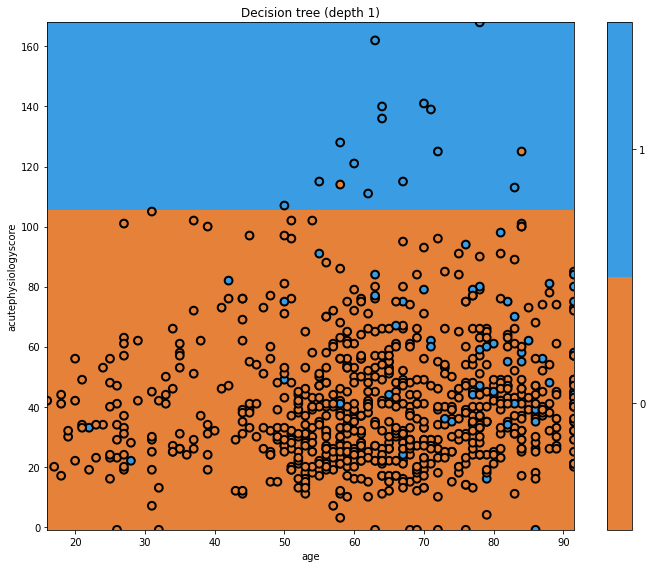
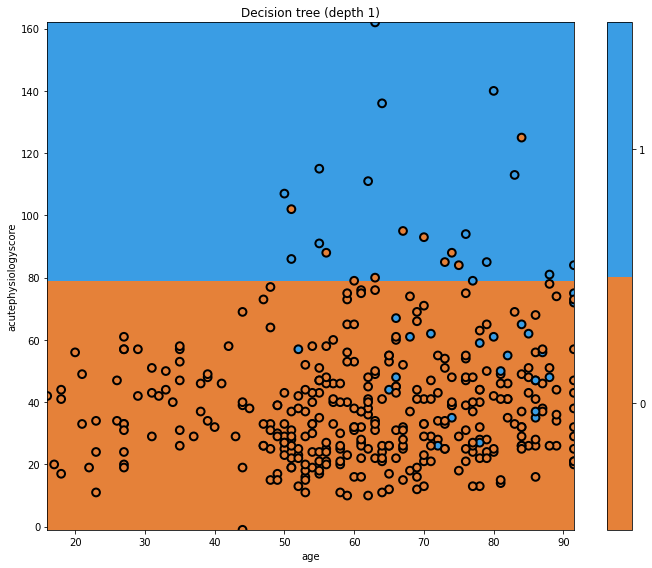
update figures

diff --git a/episodes/01-introduction.md b/episodes/01-introduction.md
@@ -43,13 +43,13 @@ cohort.head()
 
 The data has been assigned to a dataframe called `cohort`. Each item that is listed after the `SELECT` statement appears as a column in the data. Let's take a look at the first few lines:
 
-|index|gender|age|admissionweight|unabridgedhosplos|acutephysiologyscore|actualhospitalmortality|heartrate|meanbp|creatinine|temperature|respiratoryrate|wbc|admissionheight|
-|---|---|---|---|---|---|---|---|---|---|---|---|---|---|
-|0|Male|45\.0|116\.0|3\.0778|41|ALIVE|109\.0|154\.0|1\.01|36\.2|41\.0|10\.0|178\.0|
-|1|Male|57\.0|NaN|7\.6736|26|ALIVE|106\.0|46\.0|-1\.0|36\.3|6\.0|10\.1|172\.7|
-|2|Female|80\.0|65\.3|7\.8806|7|ALIVE|96\.0|106\.0|-1\.0|36\.4|18\.0|8\.5|170\.2|
-|3|Female|48\.0|86\.4|27\.5583|44|ALIVE|102\.0|54\.0|1\.16|36\.9|39\.0|6\.1|177\.8|
-|4|Female|59\.0|66\.6|15\.0778|56|ALIVE|134\.0|172\.0|1\.03|34\.8|32\.0|25\.5|170\.2|
+|index|gender|age|admissionweight|unabridgedhosplos|acutephysiologyscore|apachescore|actualhospitalmortality|heartrate|meanbp|creatinine|temperature|respiratoryrate|wbc|admissionheight|
+|---|---|---|---|---|---|---|---|---|---|---|---|---|---|---|
+|0|Female|48|86\.4|27\.5583|44|49|ALIVE|102\.0|54\.0|1\.16|36\.9|39\.0|6\.1|177\.8|
+|1|Female|59|66\.6|15\.0778|56|61|ALIVE|134\.0|172\.0|1\.03|34\.8|32\.0|25\.5|170\.2|
+|2|Male|31|66\.8|2\.7326|45|45|ALIVE|138\.0|71\.0|2\.35|37\.2|34\.0|21\.4|188\.0|
+|3|Female|51|77\.1|0\.1986|19|24|ALIVE|122\.0|73\.0|-1\.0|36\.8|26\.0|-1\.0|160\.0|
+|4|Female|48|63\.4|1\.7285|25|30|ALIVE|130\.0|68\.0|1\.1|-1\.0|29\.0|7\.6|172\.7|
 
 
 ## Preparing the data for analysis
@@ -86,23 +86,24 @@ The table below shows summary characteristics of our dataset:
 
 |                                    |         | Missing   | Overall      | ALIVE        | EXPIRED      |
 |------------------------------------|---------|-----------|--------------|--------------|--------------|
-| n                                  |         |           | 1109         | 1012         | 97           |
-| gender, n (%)                      | Female  | 0         | 621 (56.0)   | 576 (56.9)   | 45 (46.4)    |
-|                                    | Male    |           | 487 (43.9)   | 436 (43.1)   | 51 (52.6)    |
-|                                    | Unknown |           | 1 (0.1)      |              | 1 (1.0)      |
-| age, mean (SD)                     |         | 0         | 64.3 (16.7)  | 63.5 (16.7)  | 73.0 (14.5)  |
-| admissionweight, mean (SD)         |         | 27        | 83.1 (25.1)  | 83.5 (25.2)  | 79.2 (23.5)  |
-| unabridgedhosplos, mean (SD)       |         | 0         | 7.9 (10.1)   | 7.9 (10.0)   | 7.8 (11.1)   |
-| acutephysiologyscore, mean (SD)    |         | 0         | 42.9 (23.4)  | 40.2 (20.2)  | 70.5 (34.6)  |
-| heartrate, mean (SD)               |         | 0         | 102.4 (32.3) | 101.4 (31.5) | 112.9 (38.1) |
-| meanbp, mean (SD)                  |         | 0         | 89.5 (41.9)  | 90.0 (41.2)  | 84.3 (49.0)  |
-| creatinine, mean (SD)              |         | 0         | 0.9 (1.9)    | 0.8 (1.9)    | 1.3 (1.9)    |
-| temperature, mean (SD)             |         | 0         | 35.6 (5.6)   | 35.8 (5.0)   | 33.3 (9.7)   |
-| respiratoryrate, mean (SD)         |         | 0         | 27.9 (15.6)  | 27.4 (15.6)  | 33.1 (14.7)  |
-| wbc, mean (SD)                     |         | 0         | 7.6 (8.2)    | 7.3 (7.8)    | 10.5 (11.2)  |
-| admissionheight, mean (SD)         |         | 14        | 167.9 (14.1) | 167.8 (13.8) | 169.2 (16.8) |
-| actualhospitalmortality_enc, n (%) | 0       | 0         | 1012 (91.3)  | 1012 (100.0) |              |
-|                                    | 1       |           | 97 (8.7)     |              | 97 (100.0)   |
+| n                                  |         |           | 536          | 488          | 48           |
+| gender, n (%)                      | Female  | 0         | 305 (56.9)   | 281 (57.6)   | 24 (50.0)    |
+|                                    | Male    |           | 230 (42.9)   | 207 (42.4)   | 23 (47.9)    |
+|                                    | Unknown |           | 1 (0.2)      |              | 1 (2.1)      |
+| age, mean (SD)                     |         | 0         | 63.4 (17.4)  | 62.2 (17.4)  | 75.2 (12.6)  |
+| admissionweight, mean (SD)         |         | 16        | 81.8 (25.0)  | 82.3 (25.1)  | 77.0 (23.3)  |
+| unabridgedhosplos, mean (SD)       |         | 0         | 5.6 (6.8)    | 5.7 (6.7)    | 4.3 (7.8)    |
+| acutephysiologyscore, mean (SD)    |         | 0         | 41.7 (22.7)  | 38.5 (18.8)  | 74.3 (31.7)  |
+| apachescore, mean (SD)             |         | 0         | 53.6 (25.1)  | 49.9 (21.1)  | 91.8 (30.5)  |
+| heartrate, mean (SD)               |         | 0         | 101.5 (32.9) | 100.3 (31.9) | 113.9 (40.0) |
+| meanbp, mean (SD)                  |         | 0         | 89.6 (41.5)  | 90.7 (40.7)  | 78.8 (47.6)  |
+| creatinine, mean (SD)              |         | 0         | 0.8 (2.0)    | 0.8 (2.0)    | 1.4 (1.8)    |
+| temperature, mean (SD)             |         | 0         | 35.6 (5.6)   | 35.9 (4.8)   | 32.9 (10.4)  |
+| respiratoryrate, mean (SD)         |         | 0         | 27.4 (15.5)  | 26.8 (15.4)  | 33.9 (15.2)  |
+| wbc, mean (SD)                     |         | 0         | 6.5 (7.6)    | 6.2 (7.1)    | 9.9 (11.2)   |
+| admissionheight, mean (SD)         |         | 8         | 168.4 (14.5) | 168.2 (13.6) | 170.3 (21.5) |
+| actualhospitalmortality_enc, n (%) | 0       | 0         | 488 (91.0)   | 488 (100.0)  |              |
+|                                    | 1       |           | 48 (9.0)     |              | 48 (100.0)   |
 
 ## Creating train and test sets
 

diff --git a/episodes/08-performance.md b/episodes/08-performance.md
@@ -19,17 +19,17 @@ We've now learned the basics of the various tree methods and have visualized mos
 from sklearn import metrics
 
 clf = dict()
-clf['Decision Tree'] = tree.DecisionTreeClassifier(criterion='entropy', splitter='best').fit(x_train,y_train)
-clf['Gradient Boosting'] = ensemble.GradientBoostingClassifier(n_estimators=10).fit(x_train, y_train)
-clf['Random Forest'] = ensemble.RandomForestClassifier(n_estimators=10).fit(x_train, y_train)
-clf['Bagging'] =  ensemble.BaggingClassifier(n_estimators=10).fit(x_train, y_train)
-clf['AdaBoost'] =  ensemble.AdaBoostClassifier(n_estimators=10).fit(x_train, y_train)
+clf['Decision Tree'] = tree.DecisionTreeClassifier(criterion='entropy', splitter='best').fit(x_train.values, y_train.values)
+clf['Gradient Boosting'] = ensemble.GradientBoostingClassifier(n_estimators=10).fit(x_train.values, y_train.values)
+clf['Random Forest'] = ensemble.RandomForestClassifier(n_estimators=10).fit(x_train.values, y_train.values)
+clf['Bagging'] =  ensemble.BaggingClassifier(n_estimators=10).fit(x_train.values, y_train.values)
+clf['AdaBoost'] =  ensemble.AdaBoostClassifier(n_estimators=10).fit(x_train.values, y_train.values)
 
 fig = plt.figure(figsize=[10,10])
 
 print('AUROC\tModel')
 for i, curr_mdl in enumerate(clf):    
-    yhat = clf[curr_mdl].predict_proba(x_test)[:,1]
+    yhat = clf[curr_mdl].predict_proba(x_test.values)[:,1]
     score = metrics.roc_auc_score(y_test, yhat)
     print('{:0.3f}\t{}'.format(score, curr_mdl))
     ax = fig.add_subplot(3,2,i+1)

diff --git a/episodes/03-variance.md b/episodes/03-variance.md
@@ -23,7 +23,7 @@ In the previous episode we created a very simple decision tree. Let's see what h
 ```python
 # train model
 mdl = tree.DecisionTreeClassifier(max_depth=5)
-mdl = mdl.fit(x_train, y_train)
+mdl = mdl.fit(x_train.values, y_train.values)
 
 # plot tree
 plt.figure(figsize=[10,8])
@@ -60,7 +60,7 @@ Overfitting is a problem that occurs when our algorithm is too closely aligned t
 Let's prune the model and look again.
 
 ```python
-mdl = glowyr.prune(mdl, min_samples_leaf = 100)
+mdl = glowyr.prune(mdl, min_samples_leaf = 10)
 graph = glowyr.create_graph(mdl,feature_names=features)
 Image(graph.create_png())
 ```
@@ -98,14 +98,14 @@ for i in range(3):
     
     # only use the first 50
     idx = idx[:50]
-    X_temp = x_train.iloc[idx]
+    x_temp = x_train.iloc[idx]
     y_temp = y_train.values[idx]
     
     # initialize the model
     mdl = tree.DecisionTreeClassifier(max_depth=5)
     
     # train the model using the dataset
-    mdl = mdl.fit(X_temp, y_temp)
+    mdl = mdl.fit(x_temp.values, y_temp)
     txt = f'Random sample {i+1}'
     glowyr.plot_model_pred_2d(mdl, X_temp, y_temp, title=txt)
 ```

diff --git a/episodes/05-bagging.md b/episodes/05-bagging.md
@@ -28,7 +28,7 @@ Let's take a look at a simple bootstrap model.
 np.random.seed(321)
 clf = tree.DecisionTreeClassifier(max_depth=5)
 mdl = ensemble.BaggingClassifier(base_estimator=clf, n_estimators=6)
-mdl = mdl.fit(x_train, y_train)
+mdl = mdl.fit(x_train.values, y_train.values)
 
 fig = plt.figure(figsize=[12,6])
 for i, estimator in enumerate(mdl.estimators_):    

diff --git a/episodes/04-boosting.md b/episodes/04-boosting.md
@@ -29,7 +29,7 @@ from sklearn import ensemble
 # build the model
 clf = tree.DecisionTreeClassifier(max_depth=1)
 mdl = ensemble.AdaBoostClassifier(base_estimator=clf,n_estimators=6)
-mdl = mdl.fit(x_train,y_train)
+mdl = mdl.fit(x_train.values, y_train.values)
 
 # plot each individual decision tree
 fig = plt.figure(figsize=[12,6])

diff --git a/episodes/06-random-forest.md b/episodes/06-random-forest.md
@@ -23,7 +23,7 @@ Let's train the model.
 ```python
 np.random.seed(321)
 mdl = ensemble.RandomForestClassifier(max_depth=5, n_estimators=6, max_features=1)
-mdl = mdl.fit(x_train,y_train)
+mdl = mdl.fit(x_train.values, y_train.values)
 
 fig = plt.figure(figsize=[12,6])
 for i, estimator in enumerate(mdl.estimators_):    

diff --git a/episodes/07-gradient-boosting.md b/episodes/07-gradient-boosting.md
@@ -24,7 +24,7 @@ Let's build a gradient boosting model.
 ```python
 np.random.seed(321)
 mdl = ensemble.GradientBoostingClassifier(n_estimators=10)
-mdl = mdl.fit(x_train, y_train)
+mdl = mdl.fit(x_train.values, y_train.values)
 
 plt.figure(figsize=[9,5])
 txt = 'Gradient boosted tree (final decision surface)'

diff --git a/episodes/02-decision-tree.md b/episodes/02-decision-tree.md
@@ -32,7 +32,7 @@ from sklearn import tree
 mdl = tree.DecisionTreeClassifier(max_depth=1)
 
 # fit the model to the data - trying to predict y from X
-mdl = mdl.fit(x_train, y_train)
+mdl = mdl.fit(x_train.values, y_train.values)
 ```
 
 Our model is so simple that we can look at the full decision tree.
